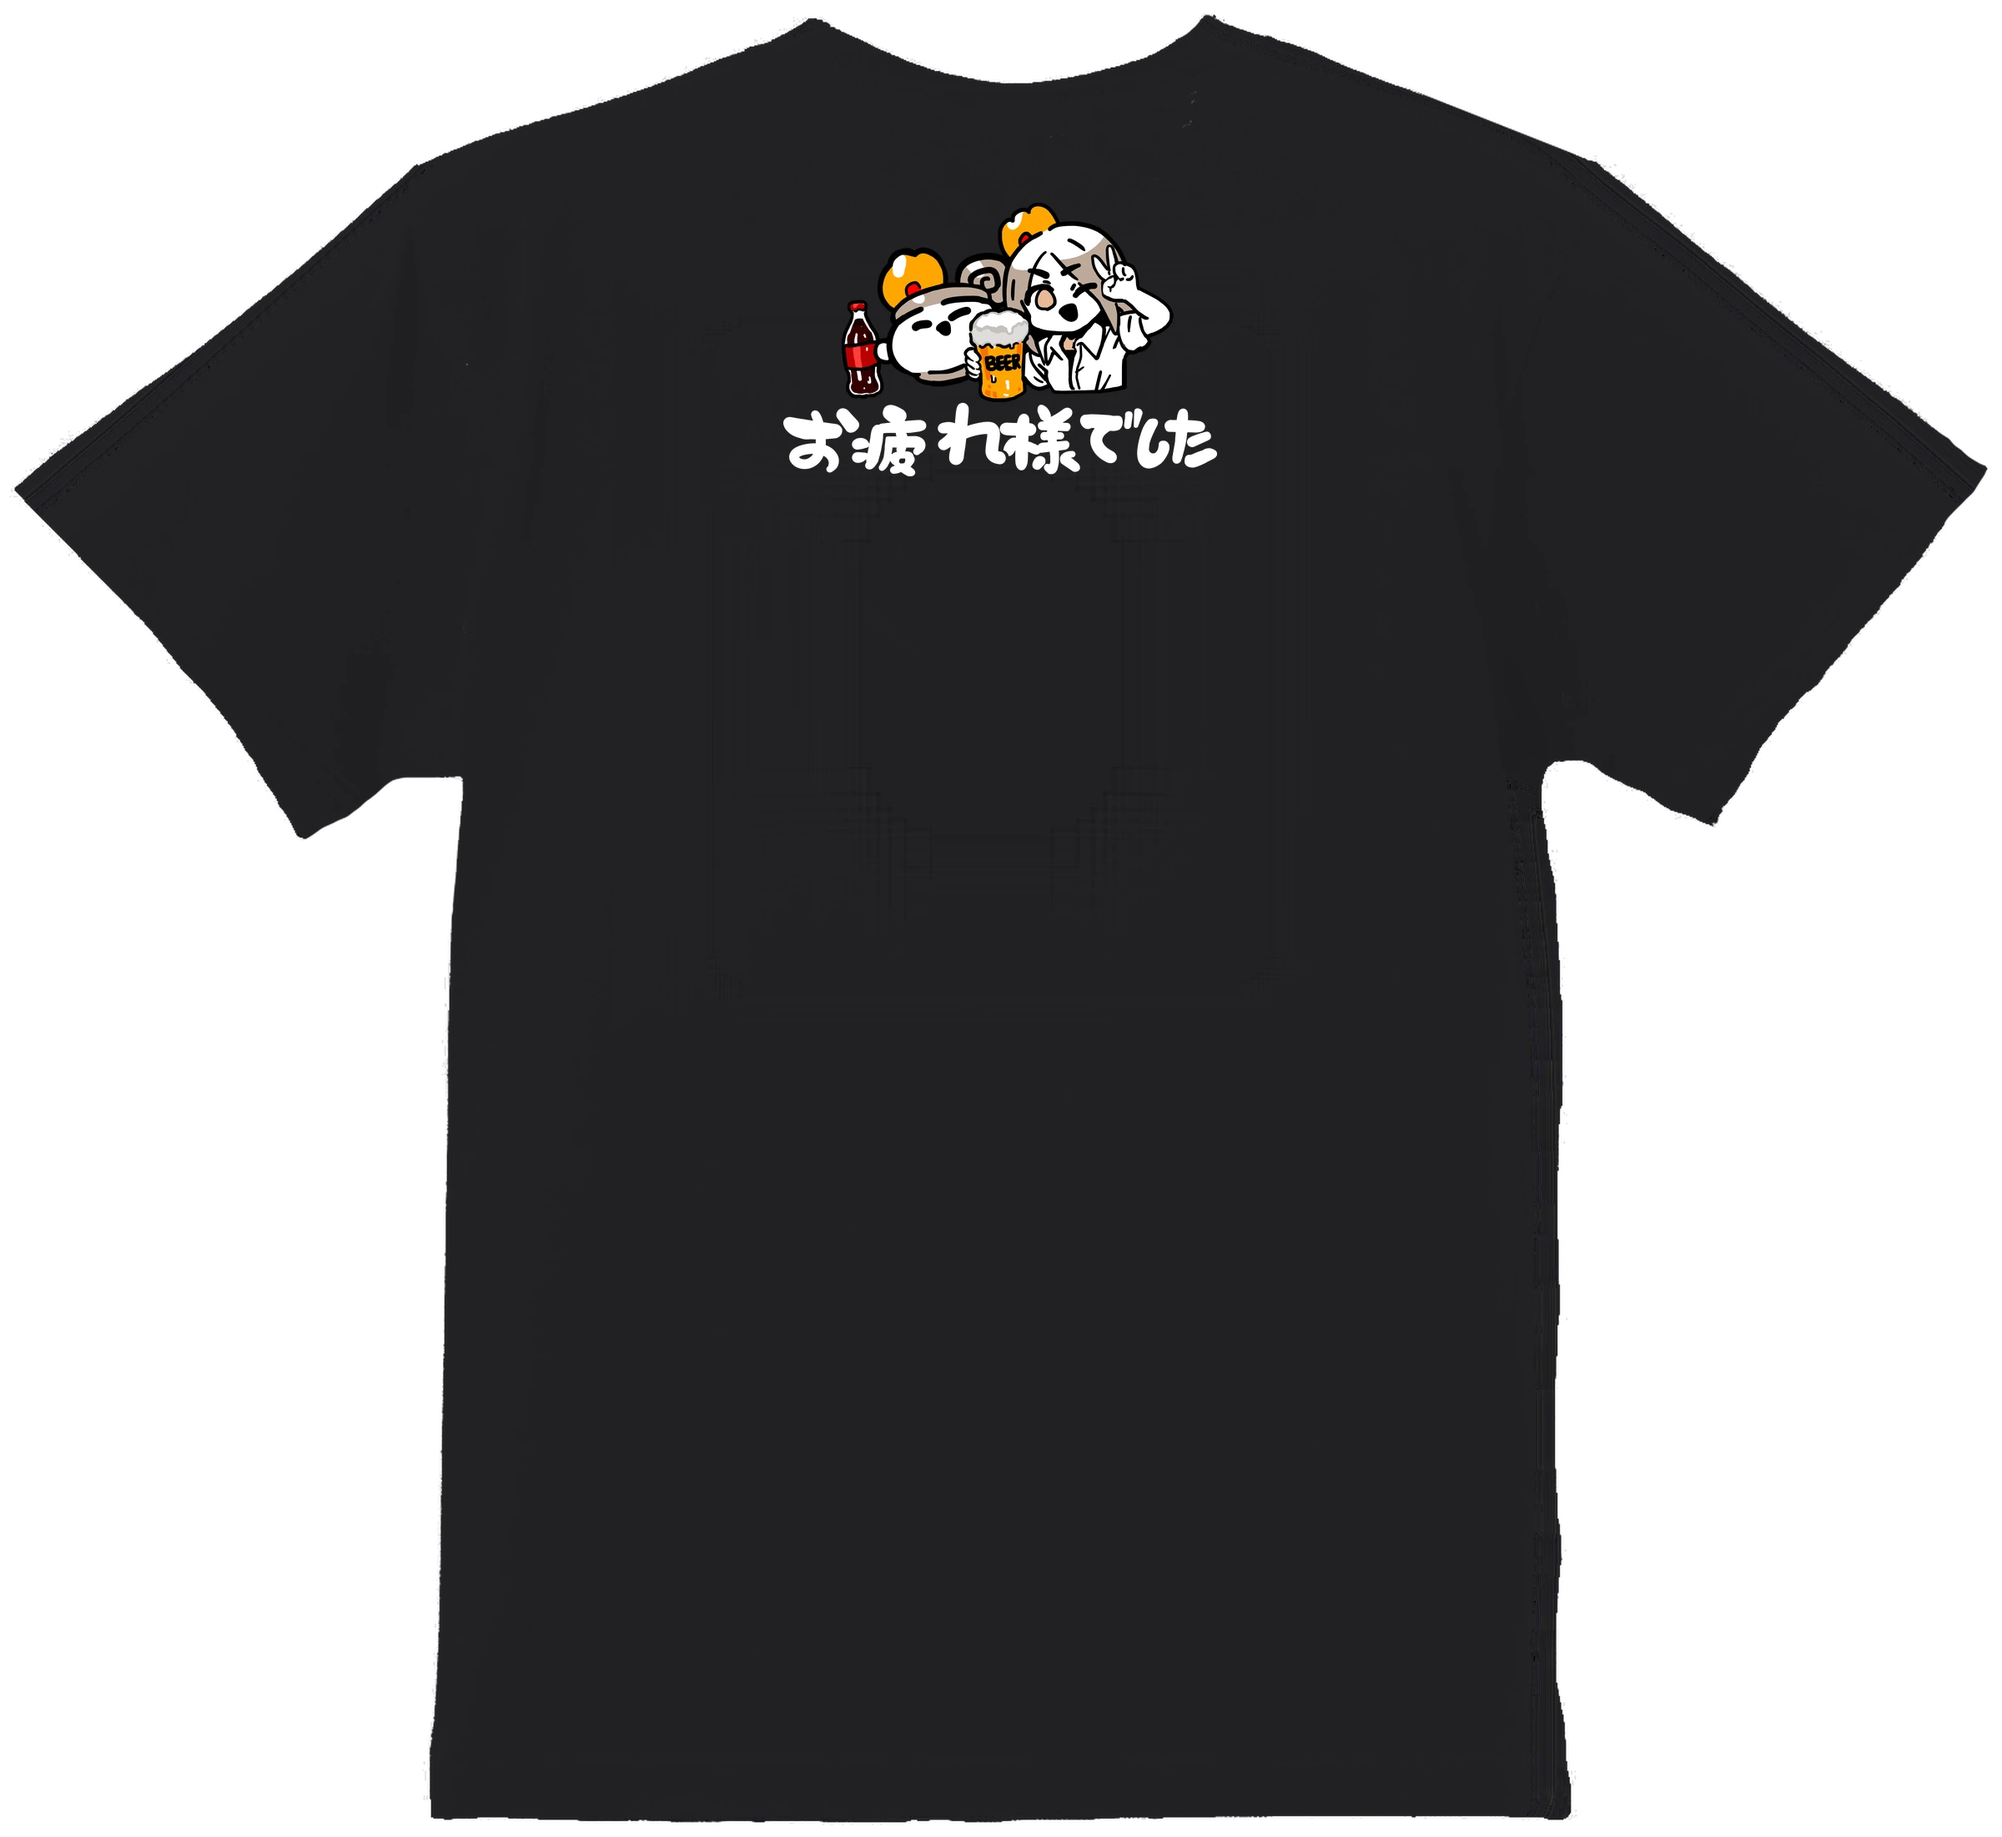
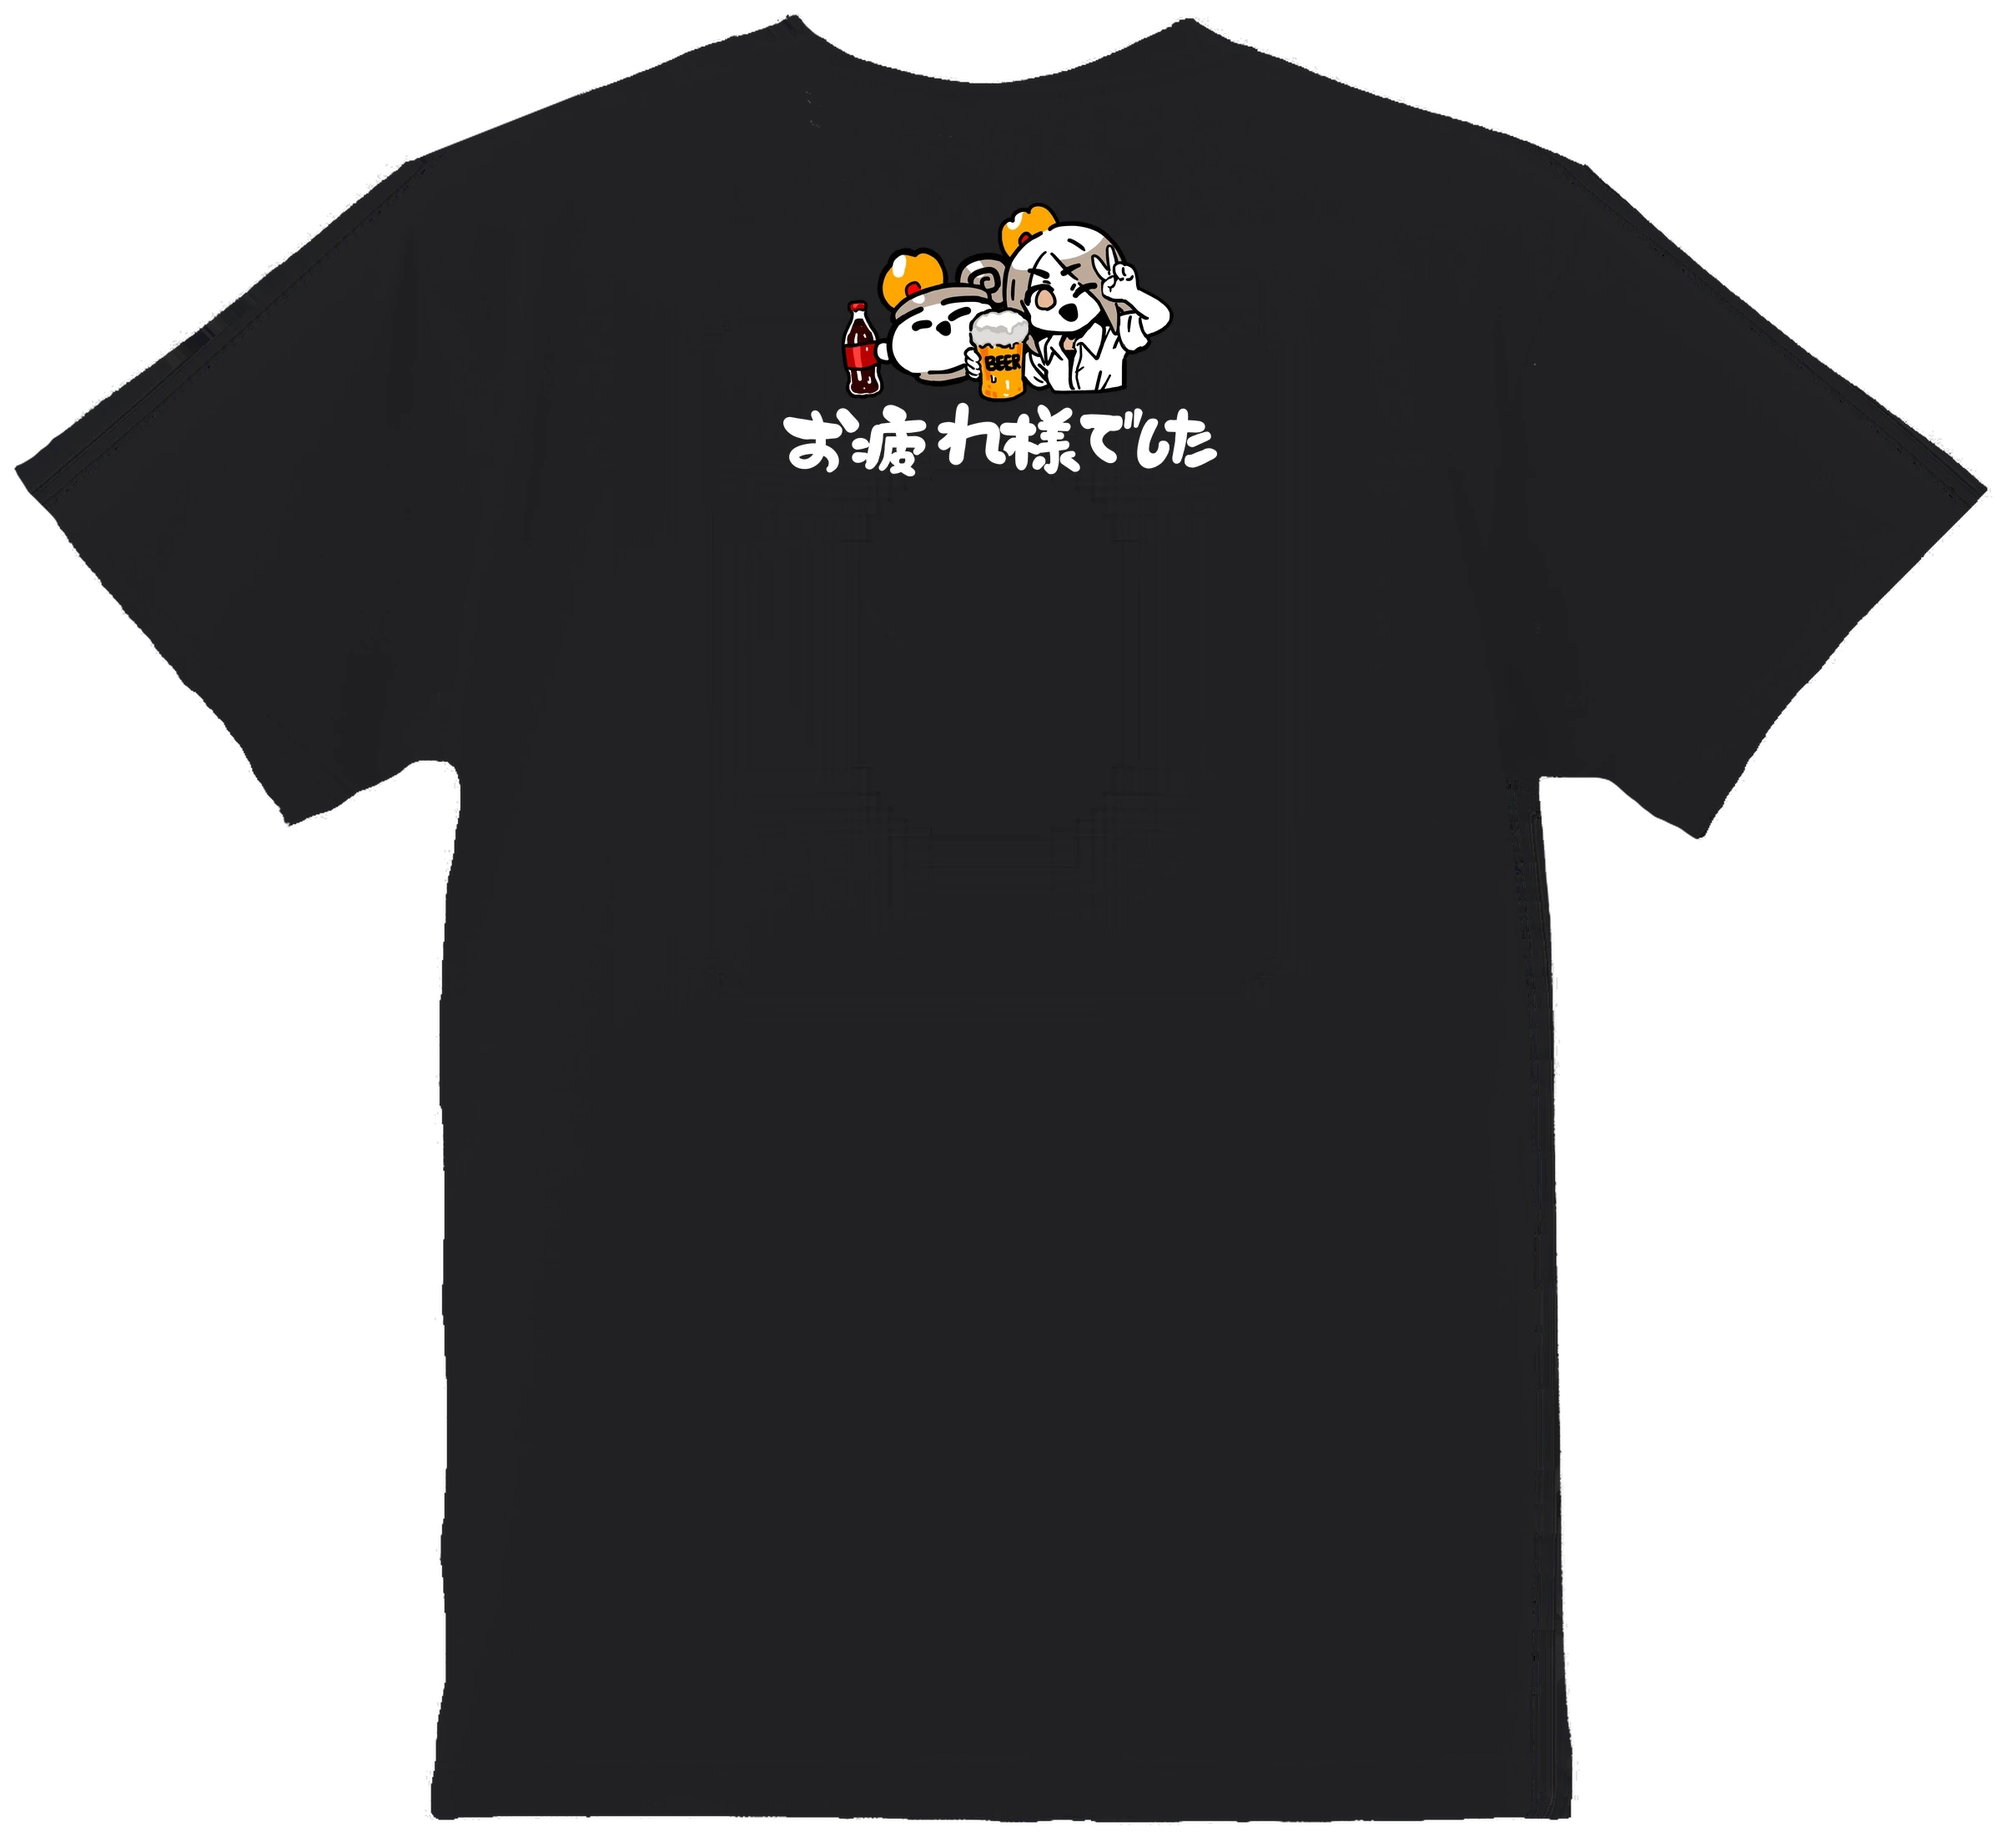
T-shirt 3D: back panel uses the mirrored silhouette so front and back meet at the edge; LINE: stickers is the main button with the new pack link
The shirt photos are not perfectly symmetric, so rotating the back panel 180 degrees left a
gap along the outline (about 1.4% of the silhouette) that showed the background as streaks
when the shirt turned. Back textures are rebuilt with the mirrored front outline and the back
height field is mirrored to match.

diff --git a/tshirt3d.js b/tshirt3d.js
@@ -70,8 +70,14 @@ export function create(frontUrl, backUrl) {
     const nx = SEG, ny = Math.round(SEG * img.height / img.width);
     const hf = heightField(img, nx, ny);
     shirt.add(panel(img, tf, W, Hh, hf, nx, ny));
-    // 背面：同一個外形轉 180°（build_tee.py 已經把背面拉成正面的外形），從後面看就是背面圖
-    const back = panel(img, tb, W, Hh, hf, nx, ny);
+    // 背面：整片轉 180° 放到後面，從後面看就是背面圖。
+    // 轉 180° 會讓外形左右顛倒，而衣服照片不是完全左右對稱（差約 1.4%）→ 前後兩片在衣服邊緣接不起來，
+    // 從側面看就從縫隙看穿到背景（他 iPhone 上看到的破圖）。所以背面那片用「左右翻過來的外形」：
+    // 鼓起高度用 hf 的鏡像，背面貼圖的透明範圍也已經改成正面外形的鏡像（2026-10-03 重做 assets/tee-*-back.webp），
+    // 轉 180° 之後兩片外形完全重合，邊緣接成密封的一圈
+    const hfB = new Float32Array(hf.length);
+    for (let j = 0; j < ny; j++) for (let i = 0; i < nx; i++) hfB[j * nx + i] = hf[j * nx + (nx - 1 - i)];
+    const back = panel(img, tb, W, Hh, hfB, nx, ny);
     back.rotation.y = Math.PI; shirt.add(back);
     ready = true; dirty = true;
   });

diff --git a/goods.html b/goods.html
@@ -256,8 +256,9 @@
   var CRANK = ['p9CNWoHaUXs', '_5Gu2JIeGsk', 'YTVP22hC7FU', '2Qg2j6cpaHU', 'jSZN1Jf0muI', 'qoxzbcfF14E'];
   // LINE：兩張貼圖截圖＋表情貼／貼圖／主題三個商店連結
   var LINE_IMGS = ['images/175855938251855_orig.jpg', 'images/messageimage-1731392433840_orig.jpg'];
-  var LINE_GO = [['表情貼', 'https://store.line.me/emojishop/product/61712ca910d0d74276aa2680/zh-Hant'],
-                 ['貼圖', 'https://store.line.me/stickershop/product/10787891/zh-Hant'],
+  // 第一顆是主按鈕（紅底）。縮圖是 LINE 貼圖，所以主按鈕是「貼圖」，連結換成新的那組（他給的，2026-10-03）
+  var LINE_GO = [['貼圖', 'https://store.line.me/stickershop/product/28354394/zh-Hant?from=sticker'],
+                 ['表情貼', 'https://store.line.me/emojishop/product/61712ca910d0d74276aa2680/zh-Hant'],
                  ['主題', 'https://store.line.me/themeshop/product/0e929099-410d-4620-a4ef-6cd1e513d8b2/zh-Hant']];
   // T 恤：資料在 tees-data.js（跟 T 恤頁共用）；這裡只放一小條
   var TEES = window.CK_TEES;
